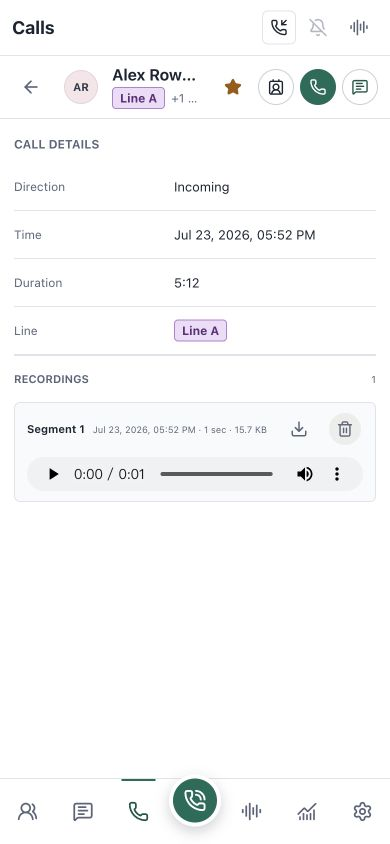
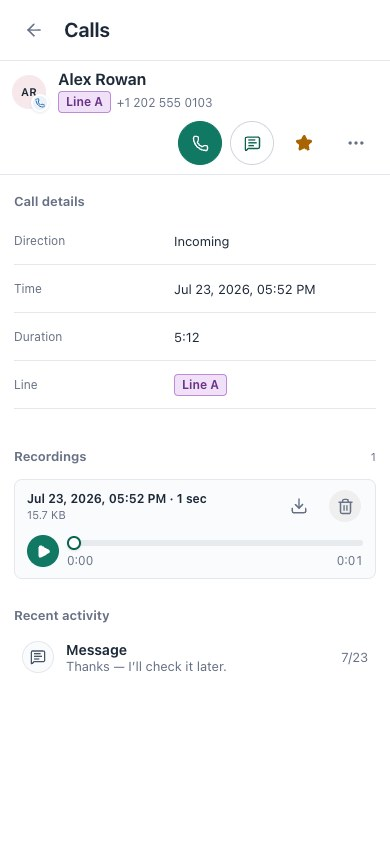
docs: refresh README screenshots and add the iOS client
- Recapture the Web desktop and phone screenshots from the fixture after
  the visual-system and navigation changes.
- Add native iOS screenshots from the simulator mock: iPhone messages,
  the keypad, the iPhone Duo outer screen and iPad two-column calls.

diff --git a/README.md b/README.md
@@ -38,8 +38,16 @@ sudo ./install.sh
 | 多线路总览：在线状态、默认线路与流量 | ![桌面端多线路总览](docs/images/readme-dashboard.jpg) | ![手机端多线路活动列表](docs/images/readme-dashboard-mobile.jpg) |
 | 按线路消息：未读、收藏与联系人动作 | ![桌面端按线路短信会话](docs/images/readme-messages.jpg) | ![手机端短信会话与线路标签](docs/images/readme-messages-mobile.jpg) |
 | 通话记录：详情与录音片段 | ![桌面端通话详情与录音片段](docs/images/readme-calls.jpg) | ![手机端通话详情与录音片段](docs/images/readme-calls-mobile.jpg) |
-| 模拟来电：录音开关已开启 | ![桌面端模拟来电与录音开关](docs/images/readme-simulated-call.jpg) | ![手机端模拟来电与录音开关](docs/images/readme-simulated-call-mobile.jpg) |
+| 模拟来电：接听或拒接 | ![桌面端模拟来电](docs/images/readme-simulated-call.jpg) | ![手机端模拟来电](docs/images/readme-simulated-call-mobile.jpg) |
 | 多路通话：两条线路同时占用与切换 | ![桌面端多路通话线路切换](docs/images/readme-multi-call.jpg) | ![手机端多路通话线路切换](docs/images/readme-multi-call-mobile.jpg) |
+
+### 原生 iOS 客户端
+
+| iPhone 消息 | iPhone 拨号：呼叫或发短信 | iPhone Duo 外屏 |
+| --- | --- | --- |
+| ![iPhone 消息列表与底部标签栏](docs/images/readme-ios-messages.jpg) | ![iPhone 拨号盘匹配联系人并可发短信](docs/images/readme-ios-keypad.jpg) | ![iPhone Duo 外屏，按钮位于右侧栏](docs/images/readme-ios-duo-cover.jpg) |
+
+![iPad 双栏通话详情与录音](docs/images/readme-ios-ipad-calls.jpg)
 
 ## 路线图
 
@@ -238,8 +246,16 @@ covered in the [deployment guide](deploy/README.md).
 | Multi-line overview: status, default line, and traffic | ![Desktop multi-line overview](docs/images/readme-dashboard.jpg) | ![Mobile multi-line activity](docs/images/readme-dashboard-mobile.jpg) |
 | Line-aware messages: unread state, favorites, and contact actions | ![Desktop line-aware message conversation](docs/images/readme-messages.jpg) | ![Mobile message conversation with line label](docs/images/readme-messages-mobile.jpg) |
 | Call history: details and recording segments | ![Desktop call details and recording segments](docs/images/readme-calls.jpg) | ![Mobile call details and recording segments](docs/images/readme-calls-mobile.jpg) |
-| Simulated incoming call: recording enabled | ![Desktop simulated incoming call with recording enabled](docs/images/readme-simulated-call.jpg) | ![Mobile simulated incoming call with recording enabled](docs/images/readme-simulated-call-mobile.jpg) |
+| Simulated incoming call: answer or decline | ![Desktop simulated incoming call](docs/images/readme-simulated-call.jpg) | ![Mobile simulated incoming call](docs/images/readme-simulated-call-mobile.jpg) |
 | Concurrent calls: two busy lines and call switching | ![Desktop concurrent-call line switcher](docs/images/readme-multi-call.jpg) | ![Mobile concurrent-call line switcher](docs/images/readme-multi-call-mobile.jpg) |
+
+### Native iOS client
+
+| iPhone messages | iPhone keypad: call or text | iPhone Duo outer screen |
+| --- | --- | --- |
+| ![iPhone message list with the tab bar](docs/images/readme-ios-messages.jpg) | ![iPhone keypad matching a contact, with call and text](docs/images/readme-ios-keypad.jpg) | ![iPhone Duo outer screen with buttons in the side column](docs/images/readme-ios-duo-cover.jpg) |
+
+![iPad two-column call details with a recording](docs/images/readme-ios-ipad-calls.jpg)
 
 ## Roadmap
 
